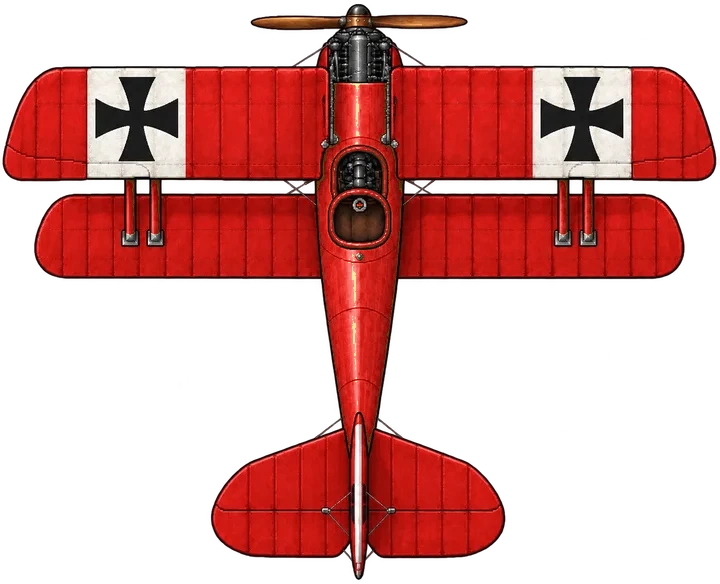
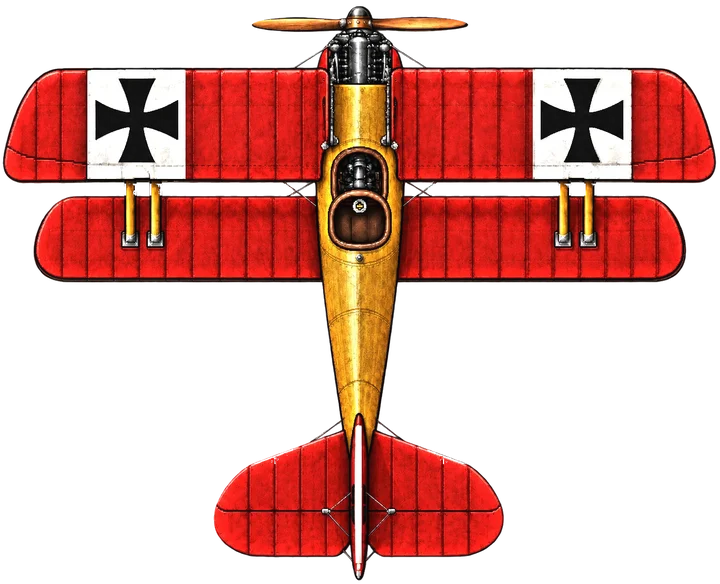
Hangar portrait lightbox + baron Albatros wood-fuselage art
- Click #portrait / #hangarPortrait -> fullscreen lightbox with name+alias,
  backdrop/Esc/close dismissal (hangar-ww1-403.css, index.html, app.js)
- baron_albatros.webp: copy mech/ art over root so hangar keyart and
  field-record show the red-wings/wood-fuselage livery used in-game
- pins: app.js + hangar-ww1-403.css -> ?v=422

Changed region(s): [[0.0, 0.0, 1.0, 1.0]]

diff --git a/index.html b/index.html
@@ -1,4 +1,4 @@
-<!doctype html><html lang="ko"><head><meta charset="utf-8"><meta name="viewport" content="width=device-width,initial-scale=1,viewport-fit=cover"><meta name="theme-color" content="#10171d"><title>HEAD-ON — 에이스의 하늘</title><link rel="stylesheet" href="style.css?v=421&b=326"><link rel="stylesheet" href="interface58.css?v=421"><link rel="stylesheet" href="hangar69.css?v=421"><link rel="stylesheet" href="coop.css?v=421"><link rel="stylesheet" href="stageboss.css?v=421"><link rel="stylesheet" href="result-names100.css"><link rel="stylesheet" href="./presentation129.css?v=421"><link rel="stylesheet" href="./mobile-ui142.css?v=421"><link rel="stylesheet" href="./reinforcement151.css?v=421"><link rel="stylesheet" href="./flight-polish156.css?v=421"><link rel="stylesheet" href="./battlefield-event-ui.css?v=421"><link rel="stylesheet" href="./main-ui-v2.css?v=421"><link rel="stylesheet" href="./hangar-portrait186.css?v=421"><link rel="stylesheet" href="./hud-ww1-397.css?v=421"><link rel="stylesheet" href="./hangar-ww1-403.css?v=421"></head><body class="astra-ui"><div id="bootSplash" aria-hidden="true"><b><i class="bl-h">HEAD</i><i class="bl-d">—</i><i class="bl-o">ON</i></b></div><script>setTimeout(()=>document.body.classList.add('assets-ready'),45000)</script>
+<!doctype html><html lang="ko"><head><meta charset="utf-8"><meta name="viewport" content="width=device-width,initial-scale=1,viewport-fit=cover"><meta name="theme-color" content="#10171d"><title>HEAD-ON — 에이스의 하늘</title><link rel="stylesheet" href="style.css?v=421&b=326"><link rel="stylesheet" href="interface58.css?v=421"><link rel="stylesheet" href="hangar69.css?v=421"><link rel="stylesheet" href="coop.css?v=421"><link rel="stylesheet" href="stageboss.css?v=421"><link rel="stylesheet" href="result-names100.css"><link rel="stylesheet" href="./presentation129.css?v=421"><link rel="stylesheet" href="./mobile-ui142.css?v=421"><link rel="stylesheet" href="./reinforcement151.css?v=421"><link rel="stylesheet" href="./flight-polish156.css?v=421"><link rel="stylesheet" href="./battlefield-event-ui.css?v=421"><link rel="stylesheet" href="./main-ui-v2.css?v=421"><link rel="stylesheet" href="./hangar-portrait186.css?v=421"><link rel="stylesheet" href="./hud-ww1-397.css?v=421"><link rel="stylesheet" href="./hangar-ww1-403.css?v=422"></head><body class="astra-ui"><div id="bootSplash" aria-hidden="true"><b><i class="bl-h">HEAD</i><i class="bl-d">—</i><i class="bl-o">ON</i></b></div><script>setTimeout(()=>document.body.classList.add('assets-ready'),45000)</script>
 <header><a class="brand" href="./"><span class="brand-mark" aria-label="HEAD-ON"><span class="wordmark" aria-hidden="true">HEAD<span class="logo-dash">—</span><span class="sight-o"><i></i></span>N</span></span> <span class="edition">에이스의 하늘</span></a><div class="header-right"><span class="campaign">FLIGHT OPERATIONS / WWI</span><label for="localeSelect"><span class="sr-only" data-i18n="language.label">언어</span><select id="localeSelect" aria-label="언어"><option value="ko">KO</option><option value="en">EN</option></select></label><button id="sound" class="quiet" aria-label="소리 끄기">소리 ON</button><button id="help" class="quiet">조작법 ?</button></div></header>
 <main><section class="field"><div class="field-top"><span><i></i> <b id="missionLabel">출격 대기</b></span><span id="record">최고 기록 000</span></div><div class="viewport" id="viewport"><canvas id="game" aria-label="공중전 전장. 방향키 또는 WASD로 조종, Space로 선회기동, E로 액티브, P로 일시정지"></canvas><div class="vignette"></div><section id="stageBossHud" class="hidden" role="progressbar" aria-label="지역 보스 내구도" aria-valuemin="0"><span id="stageBossTitle"></span><span id="stageBossParts"></span><div class="bar"><i id="stageBossHp"></i></div></section><div id="coopXpHud" class="hidden"><div><span id="p1XpLabel"></span><div class="bar"><i id="p1XpBar"></i></div></div><div><span id="p2XpLabel"></span><div class="bar"><i id="p2XpBar"></i></div></div></div><div id="coopHud" class="coop-hud hidden"><section class="coop-instrument p1"><strong id="p1HudName"></strong><canvas id="p1Gun113" class="coop-gun113" width="72" height="44"></canvas><div id="p1HudStats" style="white-space:pre-line"></div><div class="bar"><i id="p1HpBar"></i></div><div id="p1Relics" class="relics" aria-label="P1 특수장비"></div></section><div class="coop-team"><b id="coopClock">00:00</b><span id="coopKills">주요 0기</span><br><small id="coopBest"></small><br><button id="coopPause" type="button">Ⅱ Esc</button></div><section class="coop-instrument p2"><strong id="p2HudName"></strong><canvas id="p2Gun113" class="coop-gun113" width="72" height="44"></canvas><div id="p2HudStats" style="white-space:pre-line"></div><div class="bar"><i id="p2HpBar"></i></div><div id="p2Relics" class="relics" aria-label="P2 특수장비"></div></section></div><div id="coopCutins" class="coop-cutins hidden"><div id="p1Cutin" class="coop-cutin hidden"><img id="p1CutinPortrait" alt=""><div><small id="p1CutinName"></small><b id="p1CutinSkill"></b></div></div><div id="p2Cutin" class="coop-cutin p2 hidden"><img id="p2CutinPortrait" alt=""><div><small id="p2CutinName"></small><b id="p2CutinSkill"></b></div></div></div><div id="hud" class="hud hidden"><div><small>HP</small><b id="healthText">100 / 100</b><div class="bar"><i id="healthBar"></i></div></div><div class="time"><b id="clock">00:00</b><small>랭킹전</small></div></div><div id="xpHud" class="xp-hud hidden"><span id="level">LV. 1</span><div class="bar"><i id="xpBar"></i></div><button id="pause" class="quiet">Ⅱ</button></div>
 <div id="missionMap" class="mission-map hidden"><span>작전 지도 · 북쪽 ↑</span><canvas id="missionRadar" width="224" height="224" aria-label="임무 목표와 아군 및 적 위치 지도"></canvas><small>금색 목표 · 녹색 아군</small></div><div id="campaignHud" class="campaign-hud hidden"><strong id="campaignPhase"></strong><span id="campaignObjective"></span><div class="mission-direction"><span id="navigationArrow" aria-hidden="true">➤</span><b id="navigationTarget"></b></div><small id="navigationInstruction"></small><button id="altitudeButton" class="hidden">고도 전환 Q</button></div>
@@ -11,5 +11,5 @@
 <p id="campaignRecord" class="campaign-record" aria-live="polite">캠페인 기록 확인 중…</p><div id="campaignBrief"></div>
 </section><div class="sortie-dossier"><div class="dossier-heading"><span>이번 출격의 에이스</span><a class="roster-jump" href="#flightRoster">파일럿 변경</a></div><h2 id="hangarName">만프레드 폰 리히트호펜</h2><p id="hangarSkill">플라잉 서커스</p></div><label class="nickname-field hidden" for="pilotNickname"><span id="nicknameLabel">랭킹 닉네임</span> <small>선택</small><input id="pilotNickname" type="text" maxlength="12" autocomplete="off" placeholder="익명 파일럿" aria-describedby="nicknameHint"><small id="nicknameHint">비워 두어도 바로 출격할 수 있습니다.</small></label><section id="coopPanel" class="coop-panel hidden" aria-label="2인 팀 설정"><p id="coopP1Summary"></p><label class="hidden" for="coopNickname2">P2 닉네임<input id="coopNickname2" maxlength="12" autocomplete="off" placeholder="P2"></label><label for="coopPilot2">P2 파일럿 · 같은 파일럿도 선택 가능<select id="coopAircraft103" aria-label="P2 출격 기체"></select><select id="coopPilot2"></select></label><div class="coop-preview"><img id="coopPortrait2" alt=""><canvas id="coopPlane2" width="144" height="160" aria-label="P2 기체"></canvas><p id="coopSkill2"></p></div><p>P1: WASD / Space / E / R<br>P2: 방향키 / 오른쪽 Shift / Enter / ₩·역슬래시<br>Esc 공용 정지 · 자동 전진·사격</p><button id="coopRanking" type="button" class="coop-ranking">2인 협동 랭킹</button></section><button id="start" class="primary">전선으로 출격 <span aria-hidden="true">⟶</span></button><div class="start-hint"><span><kbd>WASD</kbd> 조종</span><span><kbd>SPACE</kbd> 선회기동</span><span><kbd>E</kbd> 액티브</span></div></div><div class="hangar-stamp"><span>선택 기체</span><br><b id="hangarAircraftName">붉은포커삼엽기</b></div></div>
 <div id="modal" class="overlay hidden" role="dialog" aria-modal="true" aria-labelledby="modalTitle"><div class="modal-card"><span class="eyebrow" id="modalTag"></span><h2 id="modalTitle"></h2><p id="modalText"></p><div id="modalActions"></div></div></div><div id="skillCutin" class="skill-cutin hidden" aria-live="polite"><div id="cutinPortrait" class="cutin-portrait"></div><div class="cutin-caption"><small id="cutinName"></small><strong id="cutinSkill"></strong></div></div><div id="bossArrival" class="boss-arrival hidden" aria-live="polite"><div class="boss-portrait-window"><img id="bossPortrait" alt=""></div><div><small>ENEMY ACE · 적 에이스</small><strong id="bossName"></strong><span id="bossArrivalDetail"></span></div></div><div id="bossWarning" class="boss-warning hidden" aria-live="assertive"><div class="warn-band top"></div><div class="warn-core"><b>WARNING</b><span id="bossWarnSub"></span></div><div class="warn-band bottom"></div></div><div id="bossCutin" class="boss-cutin hidden" aria-live="assertive"><div class="boss-cutin-art"><img id="bossCutinImg" alt=""></div><div class="boss-cutin-caption"><small id="bossCutinKicker"></small><strong id="bossCutinName"></strong><span id="bossCutinDetail"></span></div></div><div id="toast" class="toast hidden"></div><div class="map-label">FRANCE · 49° 56′ N<br><span>고도 2,400 m</span></div><div id="legendaryInventory" class="legendary-inventory" aria-label="획득한 특수장비"></div><div id="touch" class="touch hidden"><div id="stick" aria-label="터치 조종"><span><canvas id="controlIcon" width="48" height="48" aria-hidden="true"></canvas></span><small id="stickCaption" data-i18n="ui.touchSteer">터치 조종</small></div><div class="touch-actions"><button id="touchEvade" aria-label="선회기동"><canvas id="maneuverButtonIcon" width="48" height="48" aria-hidden="true"></canvas><kbd class="flight-key156">SPACE</kbd><span id="maneuverButtonText">선회기동</span><small id="maneuverButtonState"></small></button><button id="touchSkill" aria-label="파일럿 액티브"><canvas id="skillButtonIcon" width="48" height="48" aria-hidden="true"></canvas><kbd class="flight-key156">E</kbd><span id="skillButtonText">액티브 E</span><small id="skillButtonState"></small></button></div></div></div><div class="field-bottom"><span>선회하고 · 조준하고 · 살아남으세요</span><span>작전 ∞ <b> / </b> 솜 전선</span></div></section>
-<aside id="flightRoster" aria-label="파일럿과 기체 선택"><div class="section-label"><span>파일럿 선택</span><a class="hangar-return" href="#hangar">출격 화면</a></div><div class="factions"><button id="central" class="active"><img class="faction-emblem" src="aircraft-iron-cross.svg" alt="" aria-hidden="true">동맹국</button><button id="entente"><img class="faction-emblem" src="aircraft-roundel.svg" alt="" aria-hidden="true">협상국</button></div><div class="pilot-frame"><div id="portrait" class="portrait"></div><span class="portrait-label">PILOT DOSSIER / <b id="pilotNo">01</b></span><div class="portrait-caption"><span id="pilotAlias">THE RED BARON</span><h2 id="pilotName">만프레드 폰 리히트호펜</h2></div></div><div class="pilot-tabs" id="pilotTabs"></div><div class="skill-info"><div><canvas id="pilotSkillIcon" class="skill-icon" width="48" height="48" aria-hidden="true"></canvas><b id="skillName">붉은 급강하</b><kbd>E 액티브 · SPACE 선회기동</kbd></div><p id="skillDesc"></p><p id="passive103"></p><div class="bar skill-bar"><i id="skillBar"></i></div><small id="skillStatus">액티브 준비 완료</small></div><div class="selected-aircraft"><span class="equipment-label">AIRCRAFT / 배정 기체</span><div id="baronAircraftChoice" class="airframe-choice hidden"><button id="baronTriplane" type="button">붉은 Dr.I</button><button id="baronAlbatros" type="button">붉은 날개 D.III</button><small id="baronAircraftHint"></small></div><canvas id="selectedAircraft" width="180" height="160" aria-label="선택한 기체 도트 이미지"></canvas><p id="pilotAircraft" class="pilot-aircraft"></p><select id="aircraftSelect103" aria-label="출격 기체"></select><div class="airframe-brief"><p id="airframeTip"></p><div id="airframeStats" class="airframe-stats" aria-label="게임 내 기체 성능"></div><p id="airframeGrowth" class="airframe-growth"></p><small class="airframe-note">내구도는 기체 생존력을 합친 게임 HP입니다. 표시는 기본 기체 기준이며 출격 전술에 따라 달라집니다.</small><details><summary>실제 기체의 특징</summary><p id="airframeHistory"></p><small>비행 성향은 역사 자료를 참고했습니다. 속도·선회·감속 수치는 게임용이며, 고도와 실속은 재현하지 않습니다.</small></details></div></div><div class="weapon-spec"><span class="equipment-label">ARMAMENT / 무장</span><strong id="weaponSpec"></strong><small id="weaponDetail"></small></div><div class="loadout hidden" id="loadout"><div class="section-label">전술 개조</div><p id="upgradesText">격추 경험치를 모아 기체를 강화하세요.</p></div><p class="footnote">실존 기체와 에이스에서 영감을 받은 아케이드 게임.<br>전술과 능력은 게임을 위해 각색했습니다.</p></aside></main><footer><span>HEAD-ON PROJECT</span><span>하늘은 넓다. 살아남을 자리는 좁다.</span><span>FLIGHT OPERATIONS · WWI</span></footer><script type="module" src="app.js?v=421"></script><script type="module" src="./battlefield-event-ui.js?v=421"></script><script type="module" src="./main-ui-v2.js?v=421"></script><script type="module" src="./hangar-portrait186.js?v=421"></script><script type="module" src="./hangar-compact403.js?v=421"></script></body></html>
+<aside id="flightRoster" aria-label="파일럿과 기체 선택"><div class="section-label"><span>파일럿 선택</span><a class="hangar-return" href="#hangar">출격 화면</a></div><div class="factions"><button id="central" class="active"><img class="faction-emblem" src="aircraft-iron-cross.svg" alt="" aria-hidden="true">동맹국</button><button id="entente"><img class="faction-emblem" src="aircraft-roundel.svg" alt="" aria-hidden="true">협상국</button></div><div class="pilot-frame"><div id="portrait" class="portrait"></div><span class="portrait-label">PILOT DOSSIER / <b id="pilotNo">01</b></span><div class="portrait-caption"><span id="pilotAlias">THE RED BARON</span><h2 id="pilotName">만프레드 폰 리히트호펜</h2></div></div><div class="pilot-tabs" id="pilotTabs"></div><div class="skill-info"><div><canvas id="pilotSkillIcon" class="skill-icon" width="48" height="48" aria-hidden="true"></canvas><b id="skillName">붉은 급강하</b><kbd>E 액티브 · SPACE 선회기동</kbd></div><p id="skillDesc"></p><p id="passive103"></p><div class="bar skill-bar"><i id="skillBar"></i></div><small id="skillStatus">액티브 준비 완료</small></div><div class="selected-aircraft"><span class="equipment-label">AIRCRAFT / 배정 기체</span><div id="baronAircraftChoice" class="airframe-choice hidden"><button id="baronTriplane" type="button">붉은 Dr.I</button><button id="baronAlbatros" type="button">붉은 날개 D.III</button><small id="baronAircraftHint"></small></div><canvas id="selectedAircraft" width="180" height="160" aria-label="선택한 기체 도트 이미지"></canvas><p id="pilotAircraft" class="pilot-aircraft"></p><select id="aircraftSelect103" aria-label="출격 기체"></select><div class="airframe-brief"><p id="airframeTip"></p><div id="airframeStats" class="airframe-stats" aria-label="게임 내 기체 성능"></div><p id="airframeGrowth" class="airframe-growth"></p><small class="airframe-note">내구도는 기체 생존력을 합친 게임 HP입니다. 표시는 기본 기체 기준이며 출격 전술에 따라 달라집니다.</small><details><summary>실제 기체의 특징</summary><p id="airframeHistory"></p><small>비행 성향은 역사 자료를 참고했습니다. 속도·선회·감속 수치는 게임용이며, 고도와 실속은 재현하지 않습니다.</small></details></div></div><div class="weapon-spec"><span class="equipment-label">ARMAMENT / 무장</span><strong id="weaponSpec"></strong><small id="weaponDetail"></small></div><div class="loadout hidden" id="loadout"><div class="section-label">전술 개조</div><p id="upgradesText">격추 경험치를 모아 기체를 강화하세요.</p></div><p class="footnote">실존 기체와 에이스에서 영감을 받은 아케이드 게임.<br>전술과 능력은 게임을 위해 각색했습니다.</p></aside></main><footer><span>HEAD-ON PROJECT</span><span>하늘은 넓다. 살아남을 자리는 좁다.</span><span>FLIGHT OPERATIONS · WWI</span></footer><script type="module" src="app.js?v=422"></script><script type="module" src="./battlefield-event-ui.js?v=421"></script><script type="module" src="./main-ui-v2.js?v=421"></script><script type="module" src="./hangar-portrait186.js?v=421"></script><script type="module" src="./hangar-compact403.js?v=421"></script><div id="portraitLightbox" class="portrait-lightbox hidden" role="dialog" aria-modal="true" aria-label="파일럿 일러스트"><div class="plb-frame"><button id="plbClose" class="plb-close" type="button" aria-label="닫기">×</button><img id="plbImg" alt=""><span class="plb-name" id="plbName"></span><span class="plb-alias" id="plbAlias"></span></div></div></body></html>
 

diff --git a/app.js b/app.js
@@ -108,6 +108,9 @@ function show(id,on=true){$(id).classList.toggle('hidden',!on)}let baronAircraft
 const CHOICE_PORTRAIT_SCALE={huffzky:.82};
 function choicePortraitScale(id){return CHOICE_PORTRAIT_SCALE[id]||1}
 function applyPilotPortrait(target){if(!PILOTS[pilot]||!portraitSources[pilot])return;const el=$(target),choice=target==='portrait';el.style.backgroundImage=`url('${portraitSources[pilot]}')`;el.style.setProperty('--pilot-portrait-size','contain');el.style.backgroundSize=choice?'contain':'auto 100%';el.style.backgroundPosition=choice?'right bottom':'center bottom';el.style.backgroundRepeat='no-repeat';el.style.filter='drop-shadow(0 5px 8px #0008)'}
+function openPortraitLightbox(){if(!PILOTS[pilot])return;const src=portraitSources[pilot]||'portrait-'+pilot+'.webp?v=421&b=340';$('plbImg').src=src;const p=pilotLoadout(pilot,plane);$('plbName').textContent=p.name||PILOTS[pilot].name;$('plbAlias').textContent=p.alias||'';$('plbImg').alt=(p.name||'')+' 파일럿 일러스트';show('portraitLightbox')}
+$('plbClose').onclick=()=>show('portraitLightbox',false);$('portraitLightbox').onclick=e=>{if(e.target.id==='portraitLightbox')show('portraitLightbox',false)};window.addEventListener('keydown',e=>{if(e.code==='Escape'&&!$('portraitLightbox').classList.contains('hidden')){show('portraitLightbox',false);e.stopPropagation()}},true);$('portrait').onclick=openPortraitLightbox;$('hangarPortrait').onclick=openPortraitLightbox;.onclick=openPortraitLightbox;
+
 function prepareCutin(){applyPilotPortrait('cutinPortrait');const el=$('skillCutin');el.style.setProperty('--cutin-accent',faction==='central'?'#ffcf78':'#a2e2fa');el.style.animation='none';void el.offsetWidth;el.style.animation='';}
 // Labels only: retain the selected simulation ID, original fit and renderer.
 function displayAircraftName(pilotId,planeId){return aircraftName(planeId,pilotAircraftName(pilotId,planeId),pilotId)}

diff --git a/hangar-ww1-403.css b/hangar-ww1-403.css
@@ -824,3 +824,17 @@ body.astra-ui:not(.playing) #hangar .ho-skill-meta b{font:700 12px/1 var(--astra
   display:-webkit-box!important;-webkit-box-orient:vertical;-webkit-line-clamp:2!important;overflow:hidden!important;word-break:normal!important;overflow-wrap:normal!important;
  }
 }
+/* Pilot portrait lightbox — click the hangar portrait or dossier circle for the full illustration. */
+.portrait-lightbox{position:fixed;inset:0;z-index:960;display:flex;align-items:center;justify-content:center;background:radial-gradient(ellipse at 50% 42%,#1a1410ee 0%,#0b0907f4 72%);opacity:0;pointer-events:none;transition:opacity .22s ease}
+.portrait-lightbox:not(.hidden){opacity:1;pointer-events:auto}
+.portrait-lightbox .plb-frame{position:relative;display:flex;flex-direction:column;align-items:center;max-width:min(92vw,560px)}
+.portrait-lightbox img{max-width:100%;max-height:76vh;object-fit:contain;filter:drop-shadow(0 18px 44px #000c);animation:plb-rise .26s ease}
+.portrait-lightbox .plb-name{margin-top:14px;font-family:Georgia,'Times New Roman',serif;color:#e8d9bd;font-size:19px;letter-spacing:.14em;text-transform:uppercase}
+.portrait-lightbox .plb-alias{margin-top:3px;color:#b94c3f;font-size:12px;letter-spacing:.3em}
+.portrait-lightbox .plb-close{position:absolute;top:-4px;right:-44px;width:34px;height:34px;border-radius:50%;border:1px solid #8a7a5c66;background:#1c1713cc;color:#e8d9bd;font-size:18px;cursor:pointer;line-height:1}
+.portrait-lightbox .plb-close:hover{background:#3a2c20}
+@keyframes plb-rise{from{transform:translateY(14px) scale(.97);opacity:.4}to{transform:none;opacity:1}}
+#hangarPortrait{pointer-events:auto;cursor:zoom-in}
+#portrait{cursor:zoom-in}
+.pilot-tabs button .pilot-tab-portrait{pointer-events:none}
+@media(max-width:720px){.portrait-lightbox .plb-close{top:-38px;right:0}.portrait-lightbox img{max-height:70vh}}
